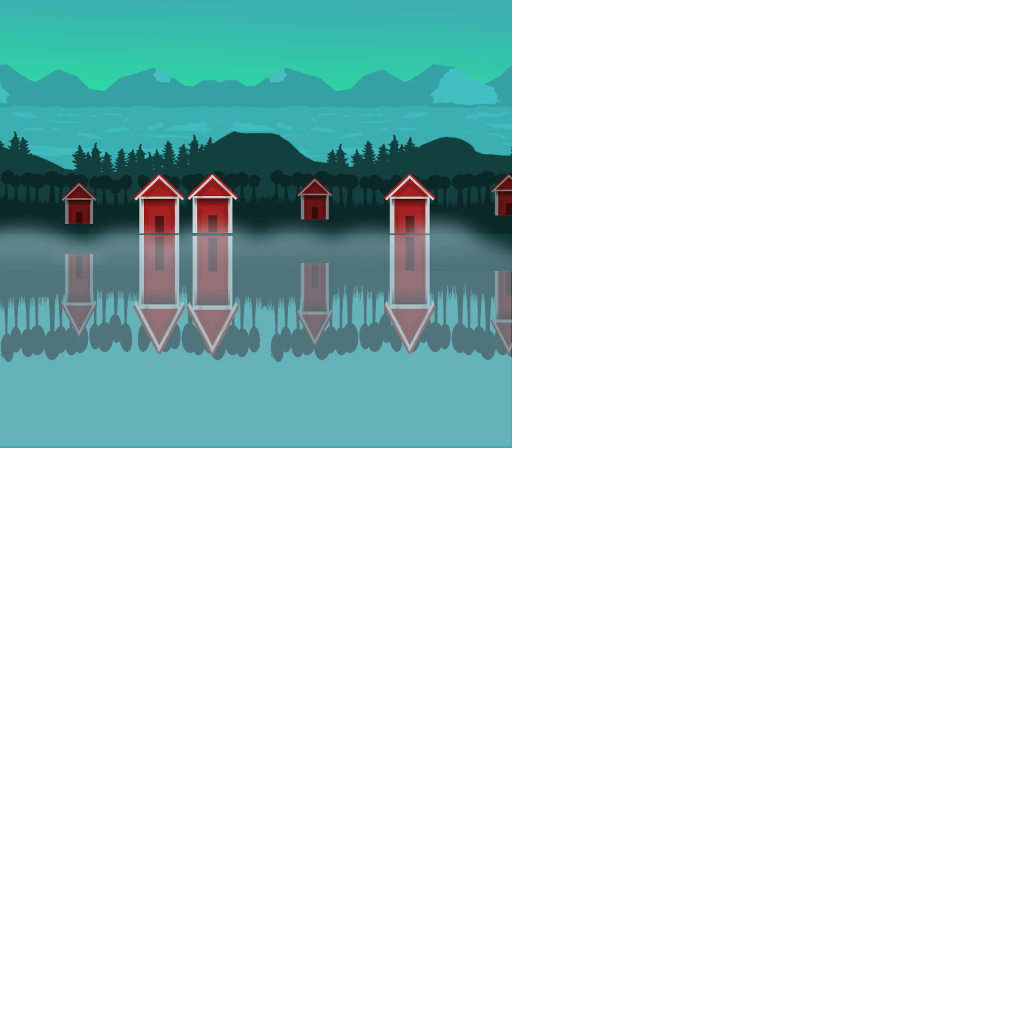
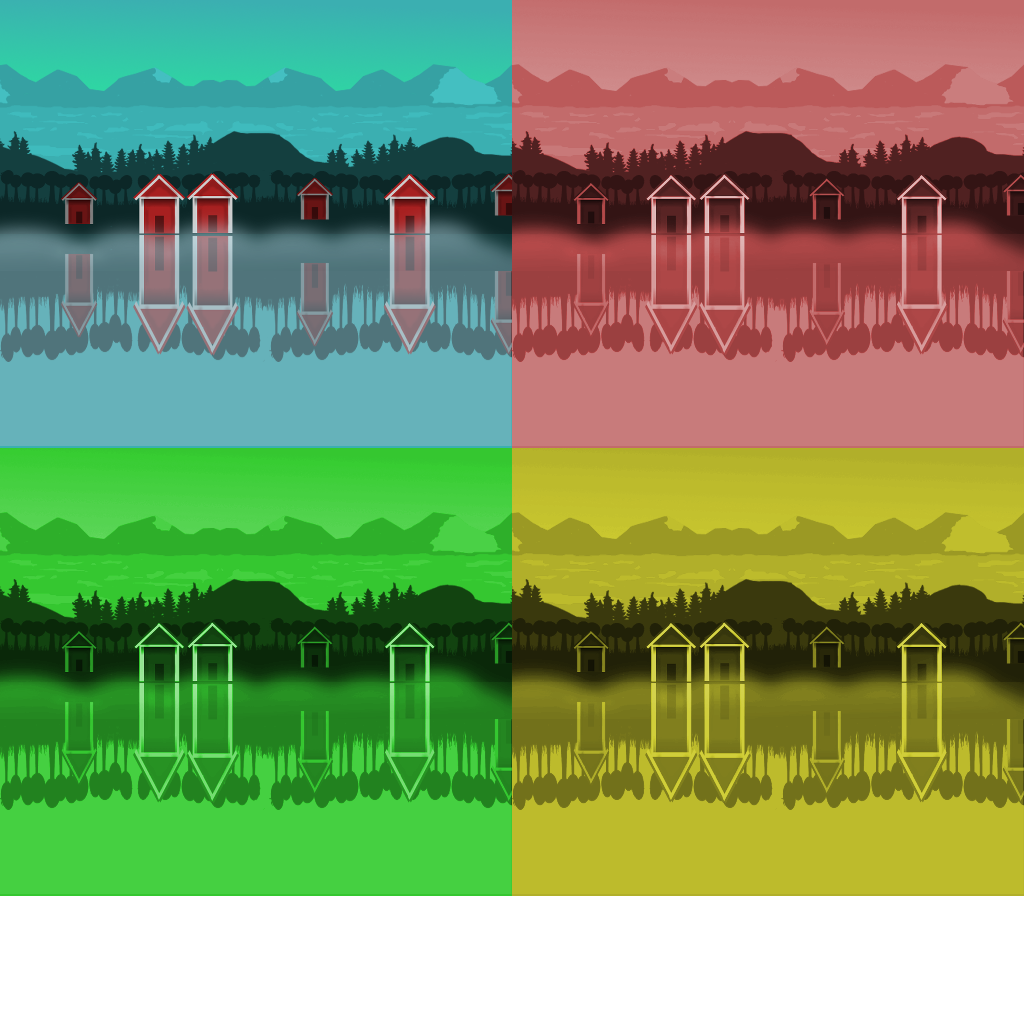
8 dec ritar ut bakgrunder för spel beroende på vilken värld man är i

diff --git a/app/src/main/java/com/l2minigames/wanderfulworld/WorldRenderer.java b/app/src/main/java/com/l2minigames/wanderfulworld/WorldRenderer.java
@@ -9,18 +9,20 @@ import com.l2minigames.framework.gl.TextureRegion;
 import com.l2minigames.framework.impl.GLGraphics;
 
 public class WorldRenderer {
-    static final float FRUSTUM_WIDTH = 10;
-    static final float FRUSTUM_HEIGHT = 15;    
+    static final float FRUSTUM_WIDTH = 20; ///Tidigare 10
+    static final float FRUSTUM_HEIGHT = 30; ///Tidigare 15
     GLGraphics glGraphics;
     World world;
     Camera2D cam;
-    SpriteBatcher batcher;    
+    SpriteBatcher batcher;
+    SuperJumper mContext;
     
-    public WorldRenderer(GLGraphics glGraphics, SpriteBatcher batcher, World world) {
+    public WorldRenderer(GLGraphics glGraphics, SpriteBatcher batcher, World world, SuperJumper context) {
         this.glGraphics = glGraphics;
         this.world = world;
         this.cam = new Camera2D(glGraphics, FRUSTUM_WIDTH, FRUSTUM_HEIGHT);
-        this.batcher = batcher;        
+        this.batcher = batcher;
+        this.mContext = context;
     }
     
     public void render() {
@@ -32,11 +34,29 @@ public class WorldRenderer {
     }
 
     public void renderBackground() {
-        batcher.beginBatch(Assets.background);
-        batcher.drawSprite(cam.position.x, cam.position.y,
-                           FRUSTUM_WIDTH, FRUSTUM_HEIGHT, 
-                           Assets.backgroundRegion);
+
+        batcher.beginBatch(Assets.background_vektor);
+        if (mContext.world.equals("wanderful world")) {
+            batcher.drawSprite(cam.position.x, cam.position.y+8f, FRUSTUM_WIDTH, FRUSTUM_WIDTH-5.8f, Assets.backgroundRegionVektorWorld); ///tidigare 160, 240, 320, 480
+            batcher.drawSprite(cam.position.x, cam.position.y-7, FRUSTUM_WIDTH, FRUSTUM_WIDTH-2f, Assets.backgroundRegionVektorWorld2); ///tidigare 160, 240, 320, 480
+        }else if (mContext.world.equals("paris")) {
+            batcher.drawSprite(cam.position.x, cam.position.y+8f, FRUSTUM_WIDTH, FRUSTUM_WIDTH-5.8f, Assets.backgroundRegionVektorParis); ///tidigare 160, 240, 320, 480
+            batcher.drawSprite(cam.position.x, cam.position.y-7, FRUSTUM_WIDTH, FRUSTUM_WIDTH-2f, Assets.backgroundRegionVektorParis2); ///tidigare 160, 240, 320, 480
+        }else if (mContext.world.equals("london")) {
+            batcher.drawSprite(cam.position.x, cam.position.y+8f, FRUSTUM_WIDTH, FRUSTUM_WIDTH-5.8f, Assets.backgroundRegionVektorLondon); ///tidigare 160, 240, 320, 480
+            batcher.drawSprite(cam.position.x, cam.position.y-7, FRUSTUM_WIDTH, FRUSTUM_WIDTH-2f, Assets.backgroundRegionVektorLondon2); ///tidigare 160, 240, 320, 480
+        }else if (mContext.world.equals("india")) {
+            batcher.drawSprite(cam.position.x, cam.position.y+8f, FRUSTUM_WIDTH, FRUSTUM_WIDTH-5.8f, Assets.backgroundRegionVektorIndia); ///tidigare 160, 240, 320, 480
+            batcher.drawSprite(cam.position.x, cam.position.y-7, FRUSTUM_WIDTH, FRUSTUM_WIDTH-2f, Assets.backgroundRegionVektorIndia2); ///tidigare 160, 240, 320, 480
+        }
+
         batcher.endBatch();
+
+        ///batcher.beginBatch(Assets.background);
+        ///batcher.drawSprite(cam.position.x, cam.position.y,
+         ///                  FRUSTUM_WIDTH, FRUSTUM_HEIGHT,
+          ///                 Assets.backgroundRegion);
+       /// batcher.endBatch();
     }
 
     public void renderObjects() {

diff --git a/app/src/main/java/com/l2minigames/wanderfulworld/Assets.java b/app/src/main/java/com/l2minigames/wanderfulworld/Assets.java
@@ -14,6 +14,12 @@ public class Assets {
     public static TextureRegion backgroundRegion;
     public static TextureRegion backgroundRegionVektorWorld;
     public static TextureRegion backgroundRegionVektorWorld2;
+    public static TextureRegion backgroundRegionVektorParis;
+    public static TextureRegion backgroundRegionVektorParis2;
+    public static TextureRegion backgroundRegionVektorLondon;
+    public static TextureRegion backgroundRegionVektorLondon2;
+    public static TextureRegion backgroundRegionVektorIndia;
+    public static TextureRegion backgroundRegionVektorIndia2;
     
     public static Texture items;        
     public static TextureRegion mainMenu;
@@ -50,6 +56,12 @@ public class Assets {
         backgroundRegion = new TextureRegion(background, 0, 0, 320, 480);
         backgroundRegionVektorWorld = new TextureRegion(background_vektor, 0, 0, 512, 448);
         backgroundRegionVektorWorld2 = new TextureRegion(background_vektor, 0, 400, 512, 48);
+        backgroundRegionVektorParis = new TextureRegion(background_vektor, 512, 0, 512, 448);
+        backgroundRegionVektorParis2 = new TextureRegion(background_vektor, 512, 400, 512, 48);
+        backgroundRegionVektorLondon = new TextureRegion(background_vektor, 0, 448, 512, 448);
+        backgroundRegionVektorLondon2 = new TextureRegion(background_vektor, 0, 830, 512, 48);
+        backgroundRegionVektorIndia = new TextureRegion(background_vektor, 512, 448, 512, 448);
+        backgroundRegionVektorIndia2 = new TextureRegion(background_vektor, 512, 830, 512, 48);
         items = new Texture(game, "items.png");        
         mainMenu = new TextureRegion(items, 0, 224, 300, 110);
         pauseMenu = new TextureRegion(items, 224, 128, 192, 96);

diff --git a/app/src/main/java/com/l2minigames/wanderfulworld/SuperJumper.java b/app/src/main/java/com/l2minigames/wanderfulworld/SuperJumper.java
@@ -14,6 +14,16 @@ import com.l2minigames.framework.impl.GLGame;
 
 public class SuperJumper extends GLGame {
     boolean firstTimeCreate = true;
+    int hp;
+    int max_hp;
+    int cp;
+    int max_cp;
+    int earth_power;
+    int fire_power;
+    int air_power;
+    int water_power;
+    String enemy;
+    String world;
 
     
     public Screen getStartScreen() {
@@ -34,16 +44,16 @@ public class SuperJumper extends GLGame {
 
         Intent intent = getIntent();
         Bundle bundle = intent.getExtras();
-        String enemy = bundle.getString("ENEMY");
-        String world = bundle.getString("WORLD");
-        int hp = bundle.getInt("HP");
-        int max_hp = bundle.getInt("MAX_HP");
-        int cp = bundle.getInt("CP");
-        int max_cp = bundle.getInt("MAX_CP");
-        int earth_power = bundle.getInt("EARTH_POWER");
-        int fire_power = bundle.getInt("FIRE_POWER");
-        int air_power = bundle.getInt("AIR_POWER");
-        int water_power = bundle.getInt("WATER_POWER");
+        enemy = bundle.getString("ENEMY");
+        world = bundle.getString("WORLD");
+        hp = bundle.getInt("HP");
+        max_hp = bundle.getInt("MAX_HP");
+        cp = bundle.getInt("CP");
+        max_cp = bundle.getInt("MAX_CP");
+        earth_power = bundle.getInt("EARTH_POWER");
+        fire_power = bundle.getInt("FIRE_POWER");
+        air_power = bundle.getInt("AIR_POWER");
+        water_power = bundle.getInt("WATER_POWER");
 
         Log.i("SUPERJUMPER", "BUNDLE VALUES: "+"enemy: "+enemy+" world: "+world+" hp: "+hp+" maxhp: "+max_hp+" cp: "+cp+" maxcp: "+max_cp+" earthpower: "+earth_power +" firepower: "+fire_power+" airpower: "+air_power+" waterpower: "+water_power);
     }     

diff --git a/app/src/main/java/com/l2minigames/wanderfulworld/MainMenuScreen.java b/app/src/main/java/com/l2minigames/wanderfulworld/MainMenuScreen.java
@@ -97,8 +97,20 @@ public class MainMenuScreen extends GLScreen {
         gl.glBlendFunc(GL10.GL_SRC_ALPHA, GL10.GL_ONE_MINUS_SRC_ALPHA);
 
         batcher.beginBatch(Assets.background_vektor);
-        batcher.drawSprite(320, 734, 640, 448, Assets.backgroundRegionVektorWorld); ///tidigare 160, 240, 320, 480
-        batcher.drawSprite(320, 300, 640, 448, Assets.backgroundRegionVektorWorld2); ///tidigare 160, 240, 320, 480
+    if (mContext.world.equals("wanderful world")) {
+        batcher.drawSprite(320, 736, 640, 448, Assets.backgroundRegionVektorWorld); ///tidigare 160, 240, 320, 480
+        batcher.drawSprite(320, 300, 640, 600, Assets.backgroundRegionVektorWorld2); ///tidigare 160, 240, 320, 480
+        }else if (mContext.world.equals("paris")) {
+            batcher.drawSprite(320, 736, 640, 448, Assets.backgroundRegionVektorParis); ///tidigare 160, 240, 320, 480
+            batcher.drawSprite(320, 300, 640, 600, Assets.backgroundRegionVektorParis2); ///tidigare 160, 240, 320, 480
+        }else if (mContext.world.equals("london")) {
+        batcher.drawSprite(320, 736, 640, 448, Assets.backgroundRegionVektorLondon); ///tidigare 160, 240, 320, 480
+        batcher.drawSprite(320, 300, 640, 600, Assets.backgroundRegionVektorLondon2); ///tidigare 160, 240, 320, 480
+        }else if (mContext.world.equals("india")) {
+        batcher.drawSprite(320, 736, 640, 448, Assets.backgroundRegionVektorIndia); ///tidigare 160, 240, 320, 480
+        batcher.drawSprite(320, 300, 640, 600, Assets.backgroundRegionVektorIndia2); ///tidigare 160, 240, 320, 480
+    }
+
         batcher.endBatch();
         
         batcher.beginBatch(Assets.items);                 

diff --git a/app/src/main/java/com/l2minigames/wanderfulworld/GameScreen.java b/app/src/main/java/com/l2minigames/wanderfulworld/GameScreen.java
@@ -66,7 +66,7 @@ public class GameScreen extends GLScreen {
             }                      
         };
         world = new World(worldListener);
-        renderer = new WorldRenderer(glGraphics, batcher, world);
+        renderer = new WorldRenderer(glGraphics, batcher, world, mContext);
         pauseBounds = new Rectangle(320- 64, 480- 64, 64, 64);
         resumeBounds = new Rectangle(160 - 96, 240, 192, 36);
         quitBounds = new Rectangle(160 - 96, 240 - 36, 192, 36);
@@ -175,7 +175,7 @@ public class GameScreen extends GLScreen {
             if(event.type != TouchEvent.TOUCH_UP)
                 continue;
             world = new World(worldListener);
-            renderer = new WorldRenderer(glGraphics, batcher, world);
+            renderer = new WorldRenderer(glGraphics, batcher, world, mContext);
             world.score = lastScore;
             state = GAME_READY;
         }

diff --git a/app/src/main/java/com/l2minigames/wanderfulworld/MapsActivity.java b/app/src/main/java/com/l2minigames/wanderfulworld/MapsActivity.java
@@ -213,7 +213,7 @@ public class MapsActivity extends FragmentActivity implements OnMapReadyCallback
                 ///ToDo fungerar bara om det finns koppling till servern
                 Bundle bundle = new Bundle();
                 bundle.putString("ENEMY", "hunchback");
-                bundle.putString("WORLD", "paris");
+                bundle.putString("WORLD", "wanderful world");
                 bundle.putInt("HP", object.hp);
                 bundle.putInt("MAX_HP", object.maxhp);
                 bundle.putInt("CP", object.cp);
